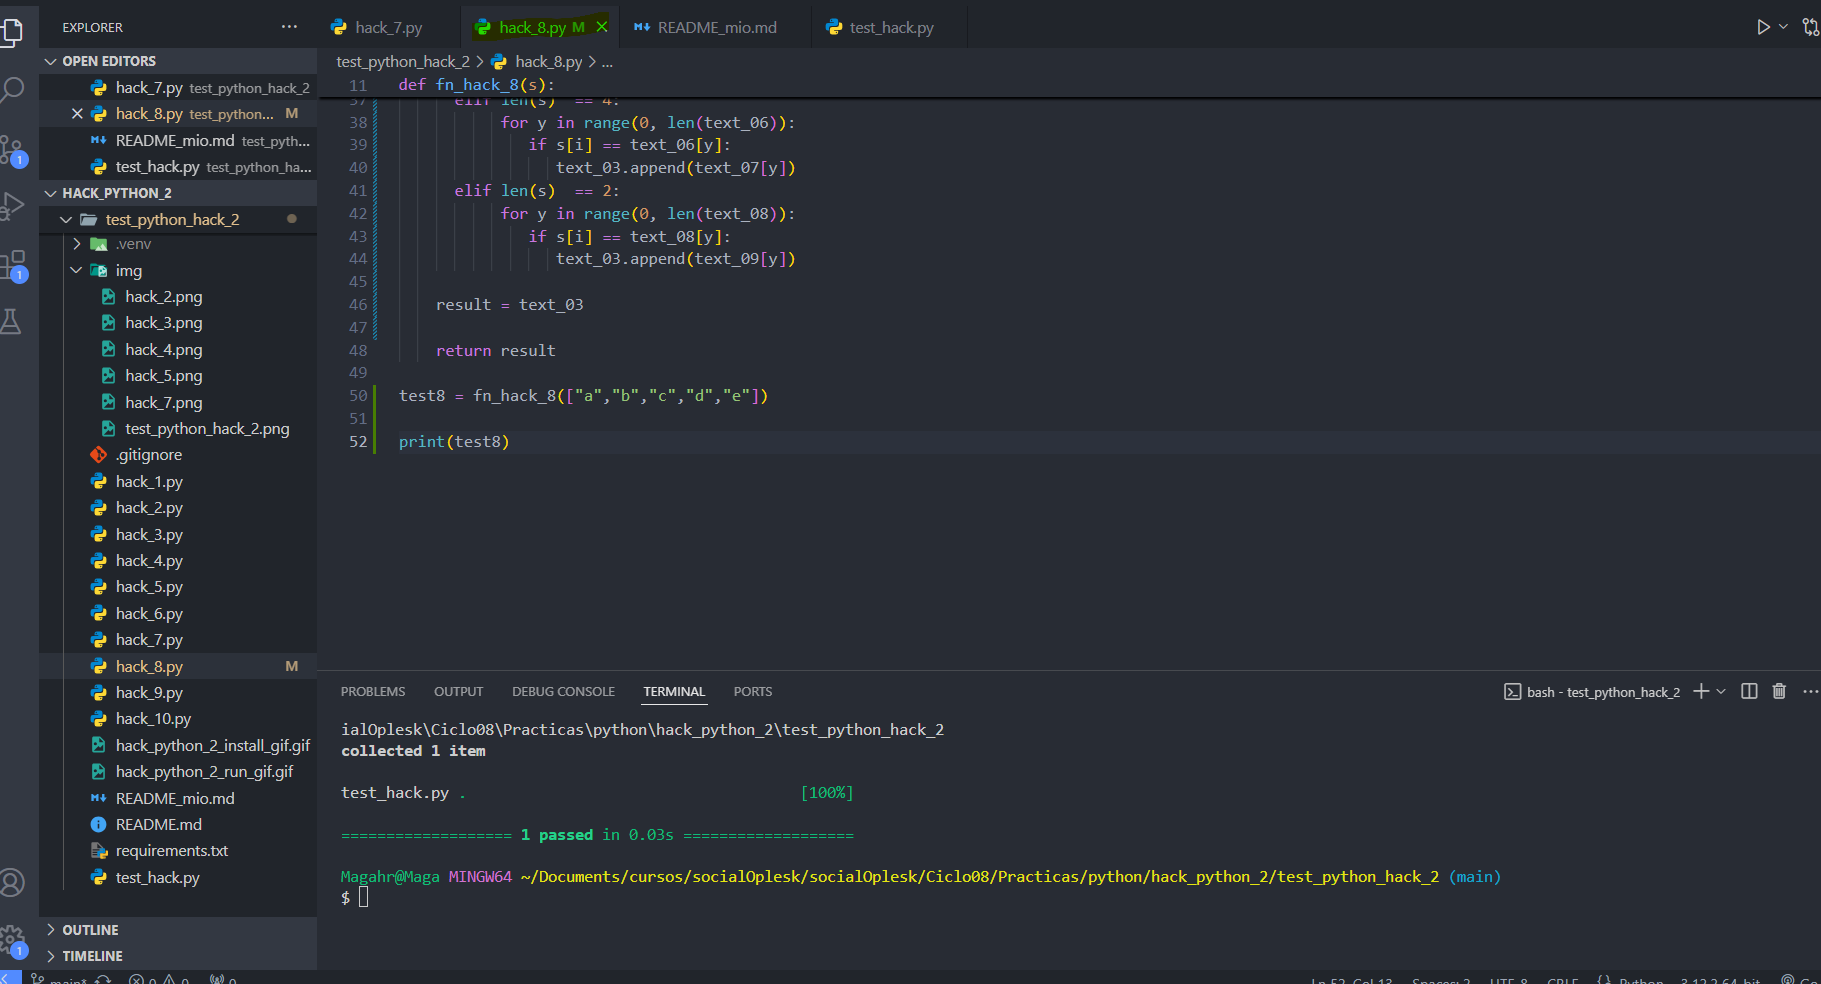
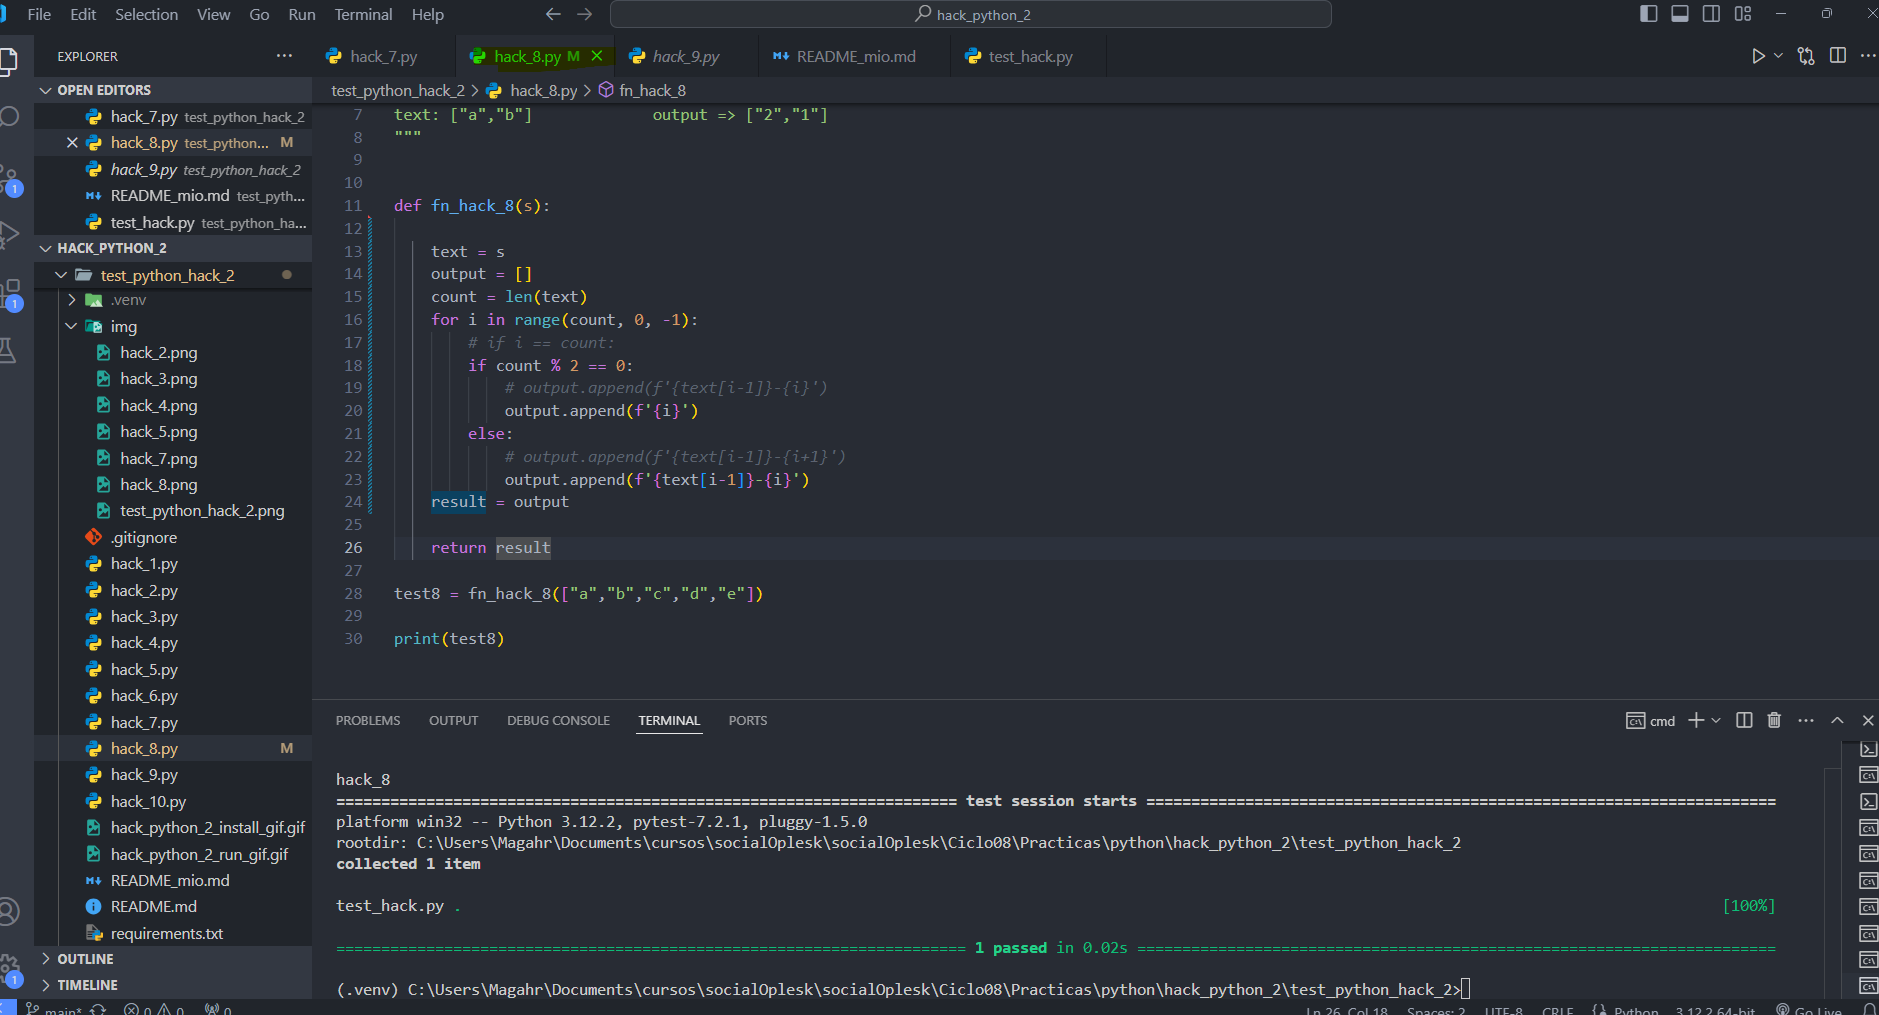
My first commit - hack 8

diff --git a/hack_8.py b/hack_8.py
@@ -9,41 +9,19 @@ text: ["a","b"]             output => ["2","1"]
 
 
 def fn_hack_8(s):
-    result = s
-    text_03 = []
-
-    text_01 = ["a",  "b",  "c",  "d",  "e"]
-    text_02 = ["e-5","d-4","c-3","b-2","a-1"]
-
-    text_04 = ["a",  "b",  "c"]
-    text_05 = ["c-3","b-2","a-1"]
-
-    text_06 = ["a",  "b",  "c",  "d"]
-    text_07 = ["4","3","2","1"]
-
-    text_08 = ["a",  "b"]
-    text_09 = ["2","1"]
-
    
-    for i in range(0, len(s)):
-      if len(s)  == 5:     
-          for y in range(0, len(text_01)):
-              if s[i] == text_01[y]:
-                 text_03.append(text_02[y])   
-      elif len(s)  == 3:
-           for y in range(0, len(text_04)):
-              if s[i] == text_04[y]:
-                 text_03.append(text_05[y]) 
-      elif len(s)  == 4:
-           for y in range(0, len(text_06)):
-              if s[i] == text_06[y]:
-                 text_03.append(text_07[y]) 
-      elif len(s)  == 2:
-           for y in range(0, len(text_08)):
-              if s[i] == text_08[y]:
-                 text_03.append(text_09[y]) 
-    
-    result = text_03
+    text = s
+    output = []
+    count = len(text)
+    for i in range(count, 0, -1):
+        # if i == count:
+        if count % 2 == 0:
+            # output.append(f'{text[i-1]}-{i}')
+            output.append(f'{i}')
+        else:
+            # output.append(f'{text[i-1]}-{i+1}')
+            output.append(f'{text[i-1]}-{i}')
+    result = output
 
     return result
 
